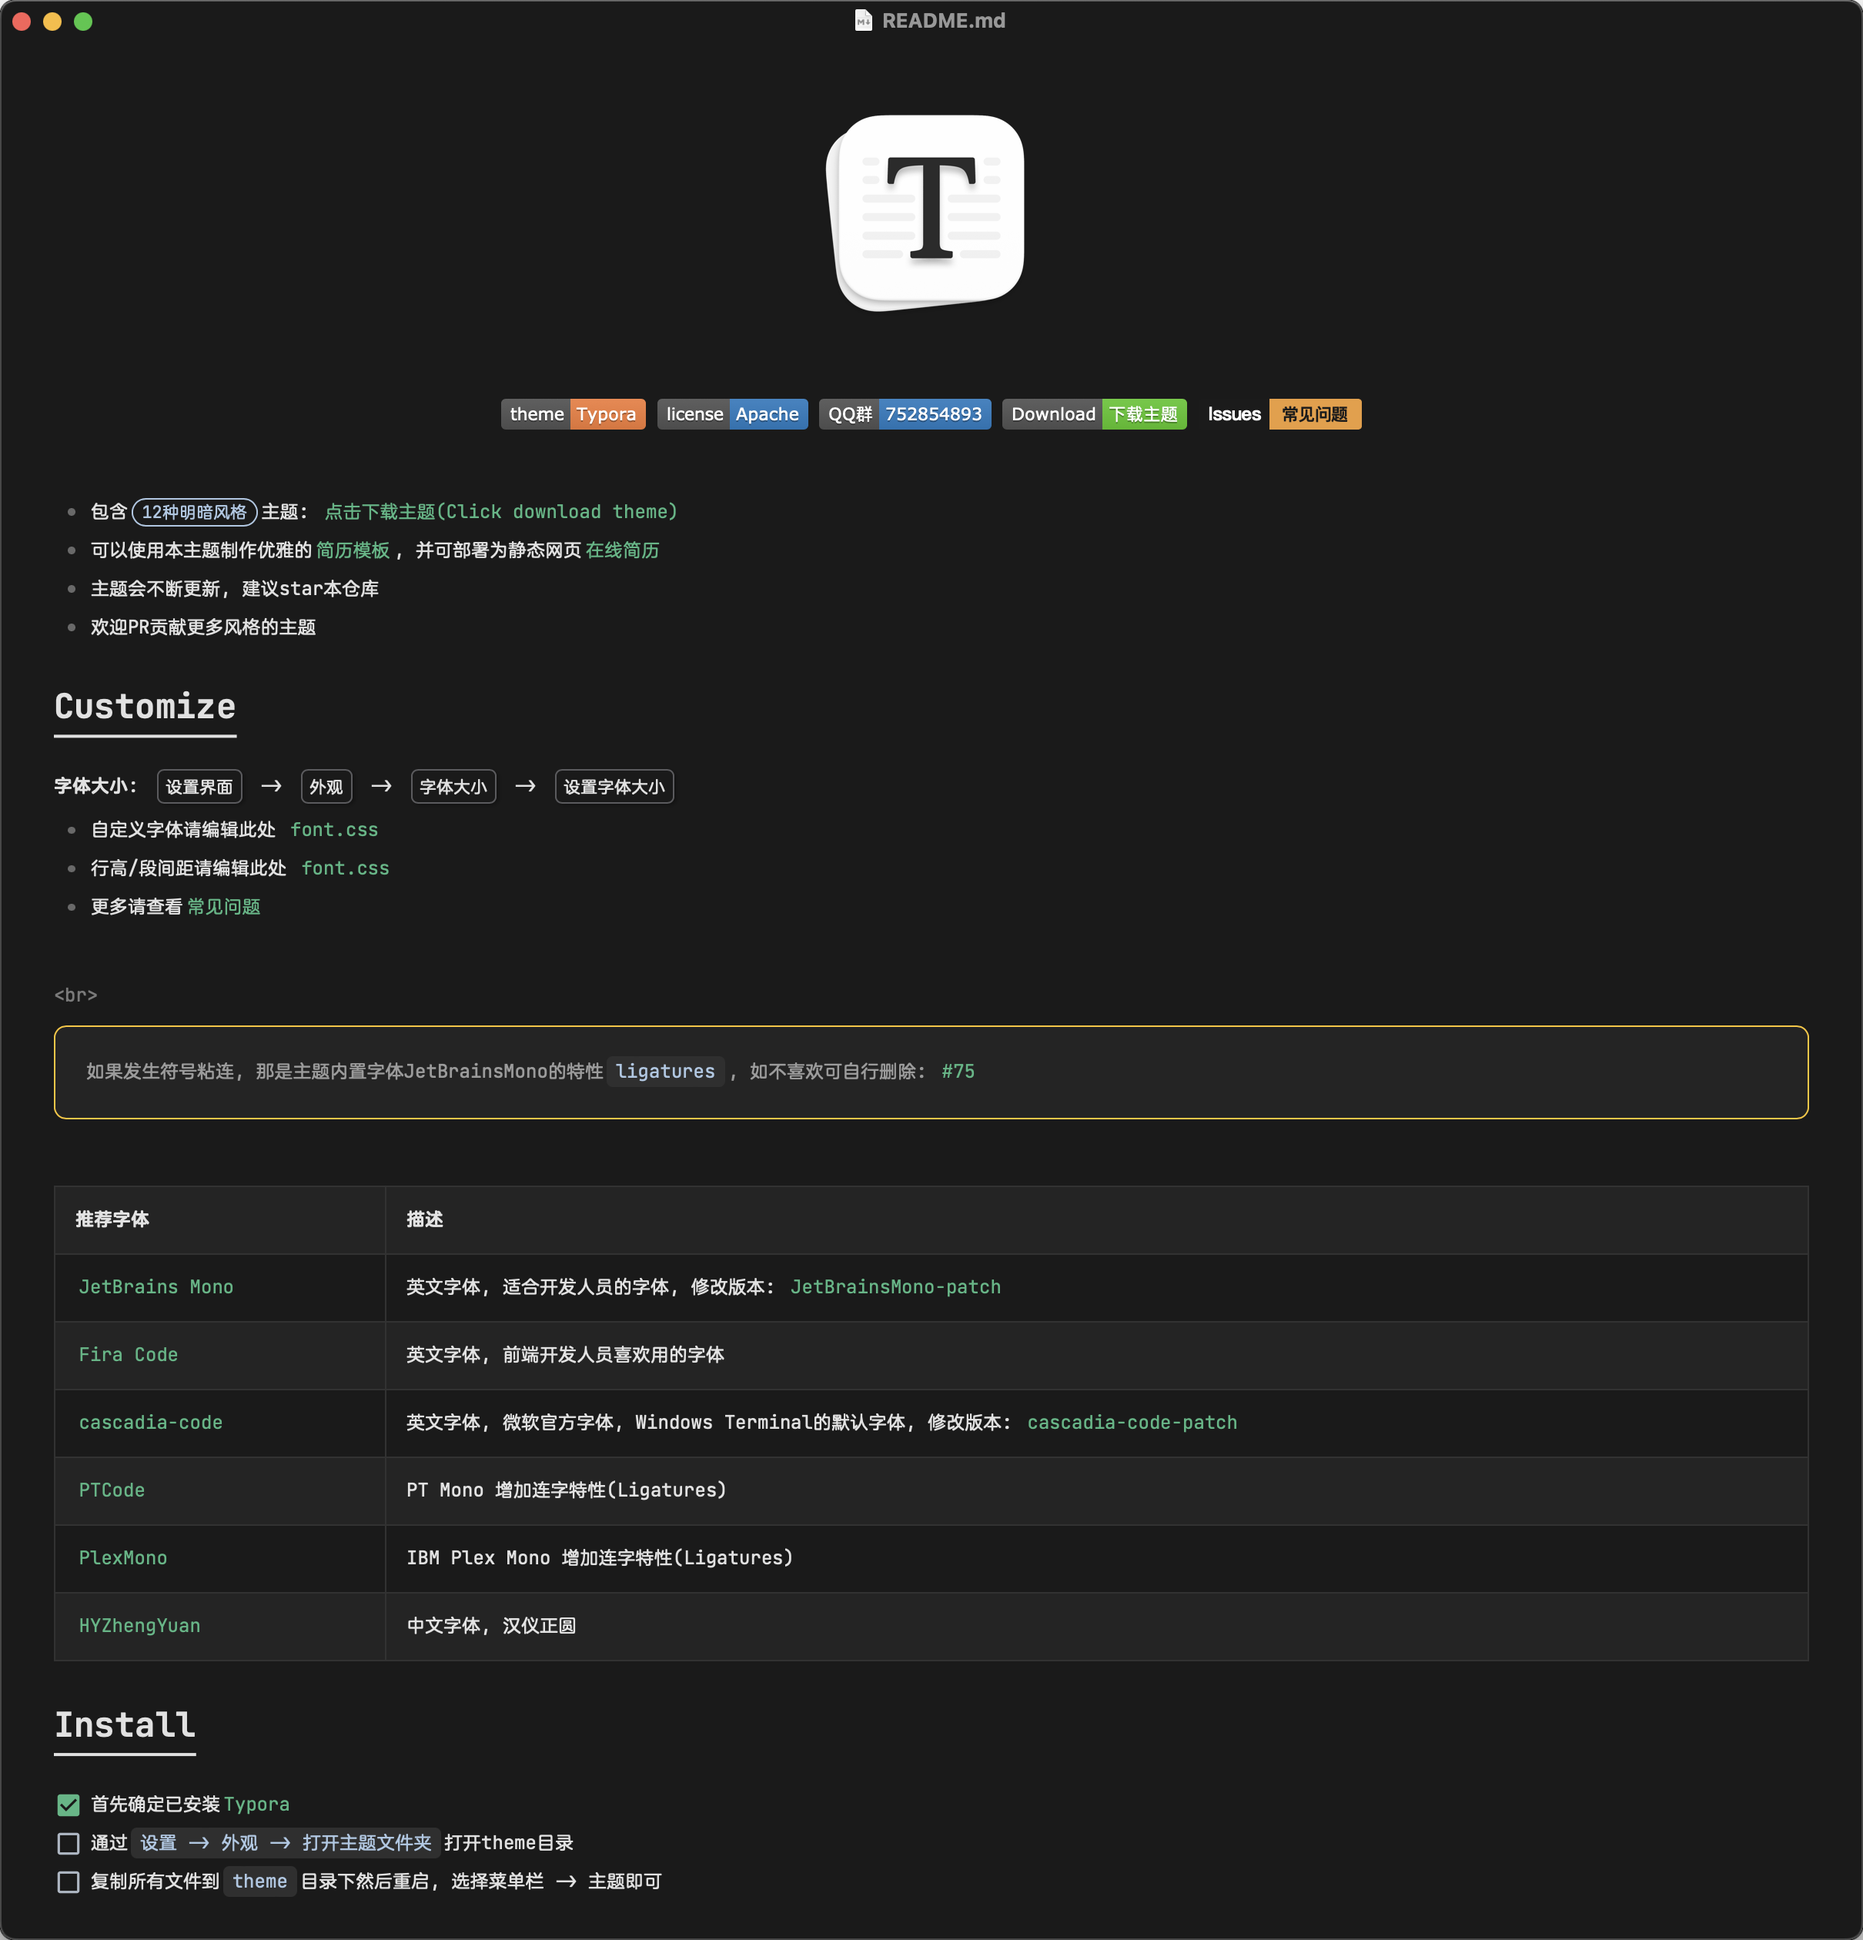
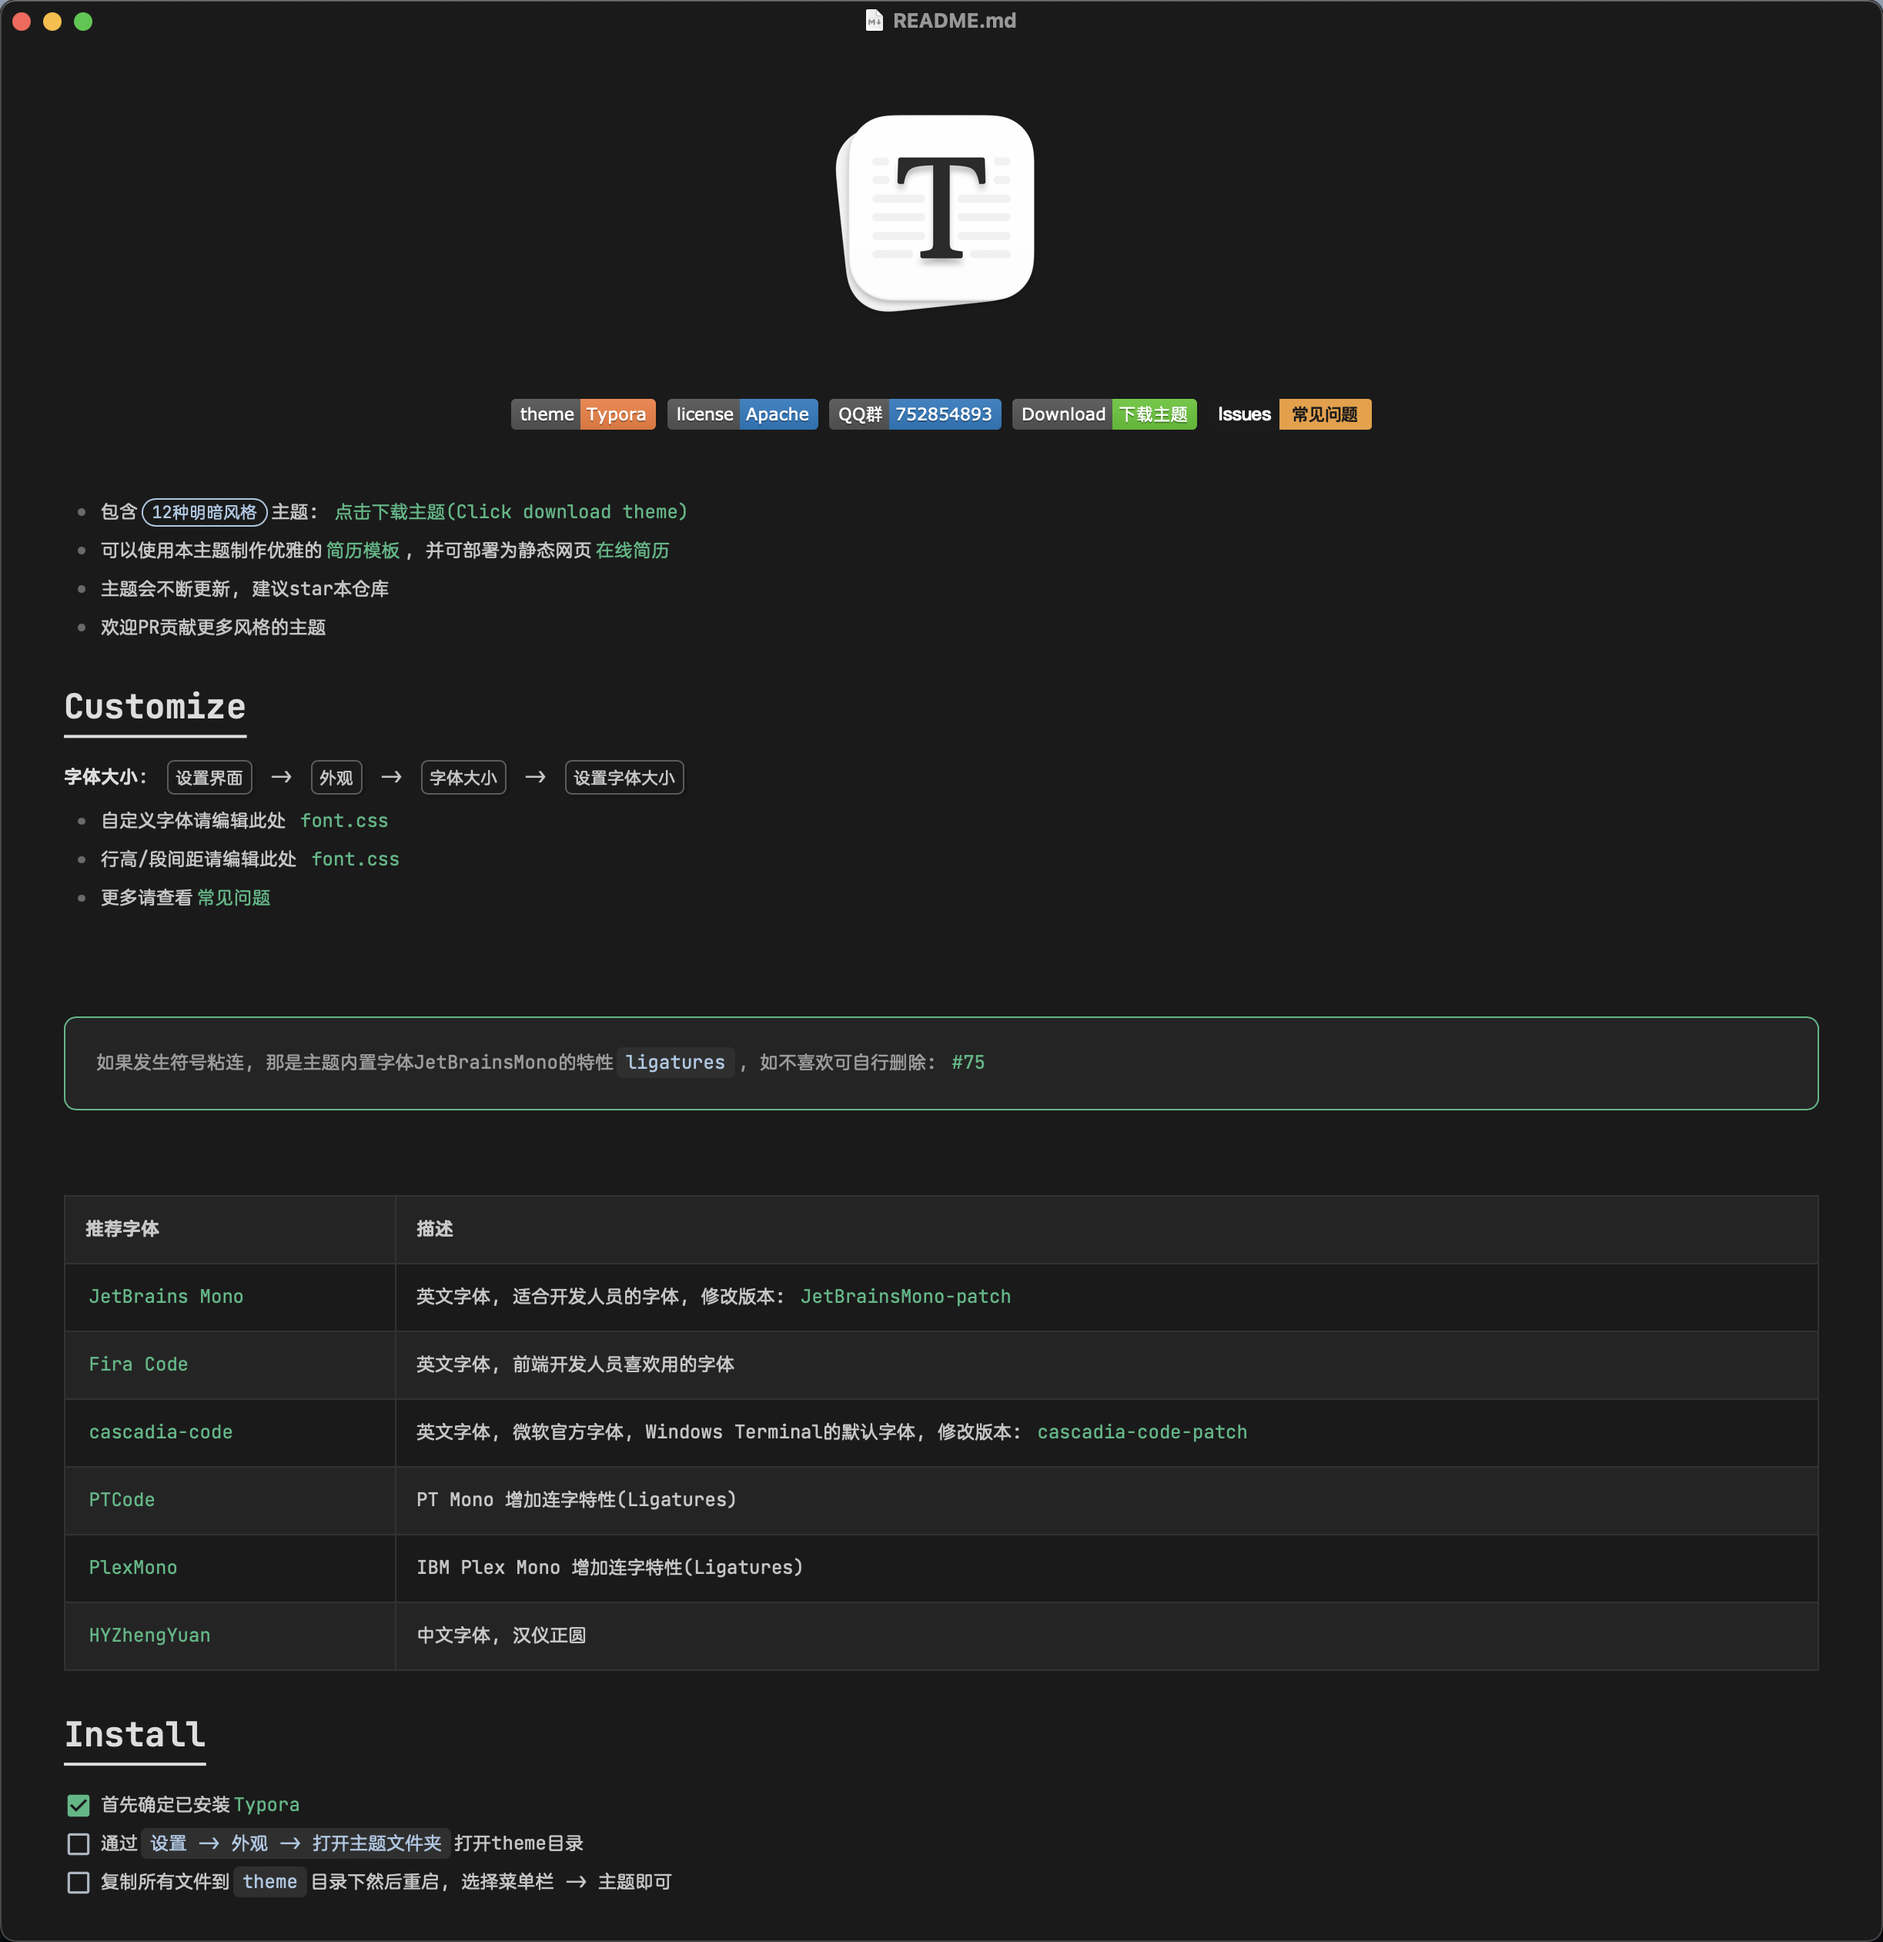
修改vue3主题的blockquote边框颜色

diff --git a/drake-vue3.css b/drake-vue3.css
@@ -255,7 +255,7 @@ blockquote {
     padding: 20px;
     background-color: var(--blockquote-bg-color);
     position: relative;
-    border: 1px solid #ffc517;
+    border: 1px solid #42b883;
 }
 
 #write strong {
